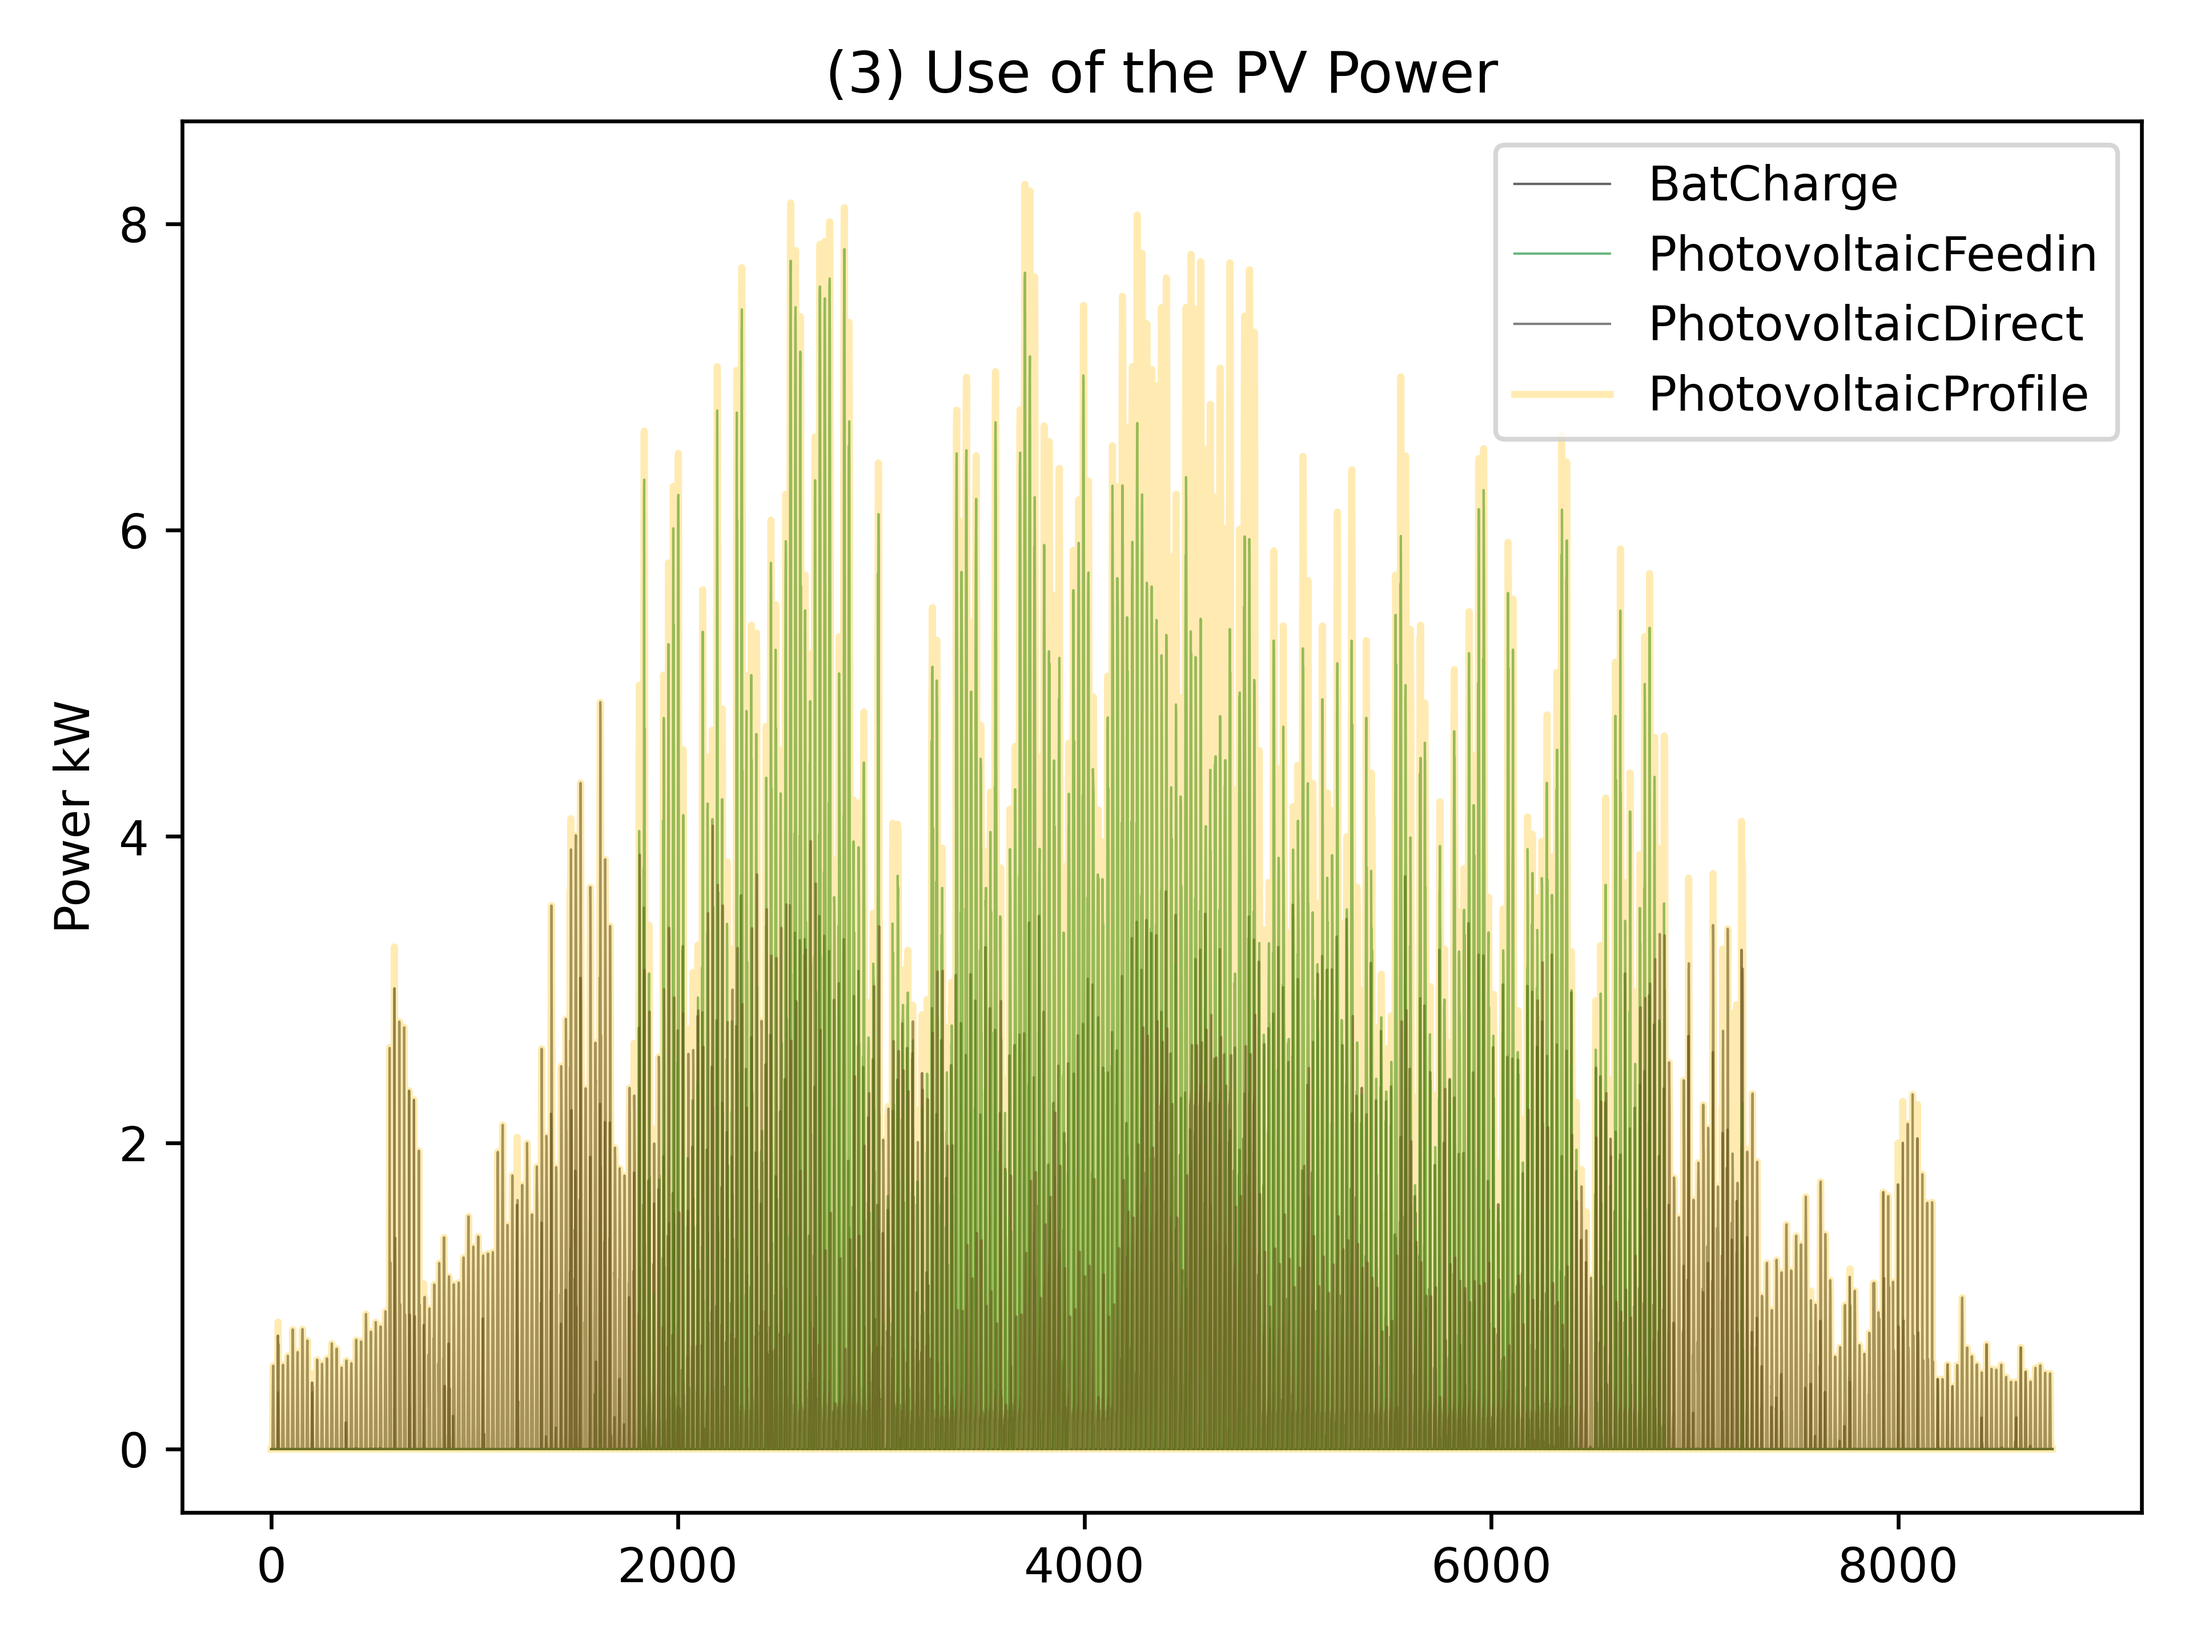
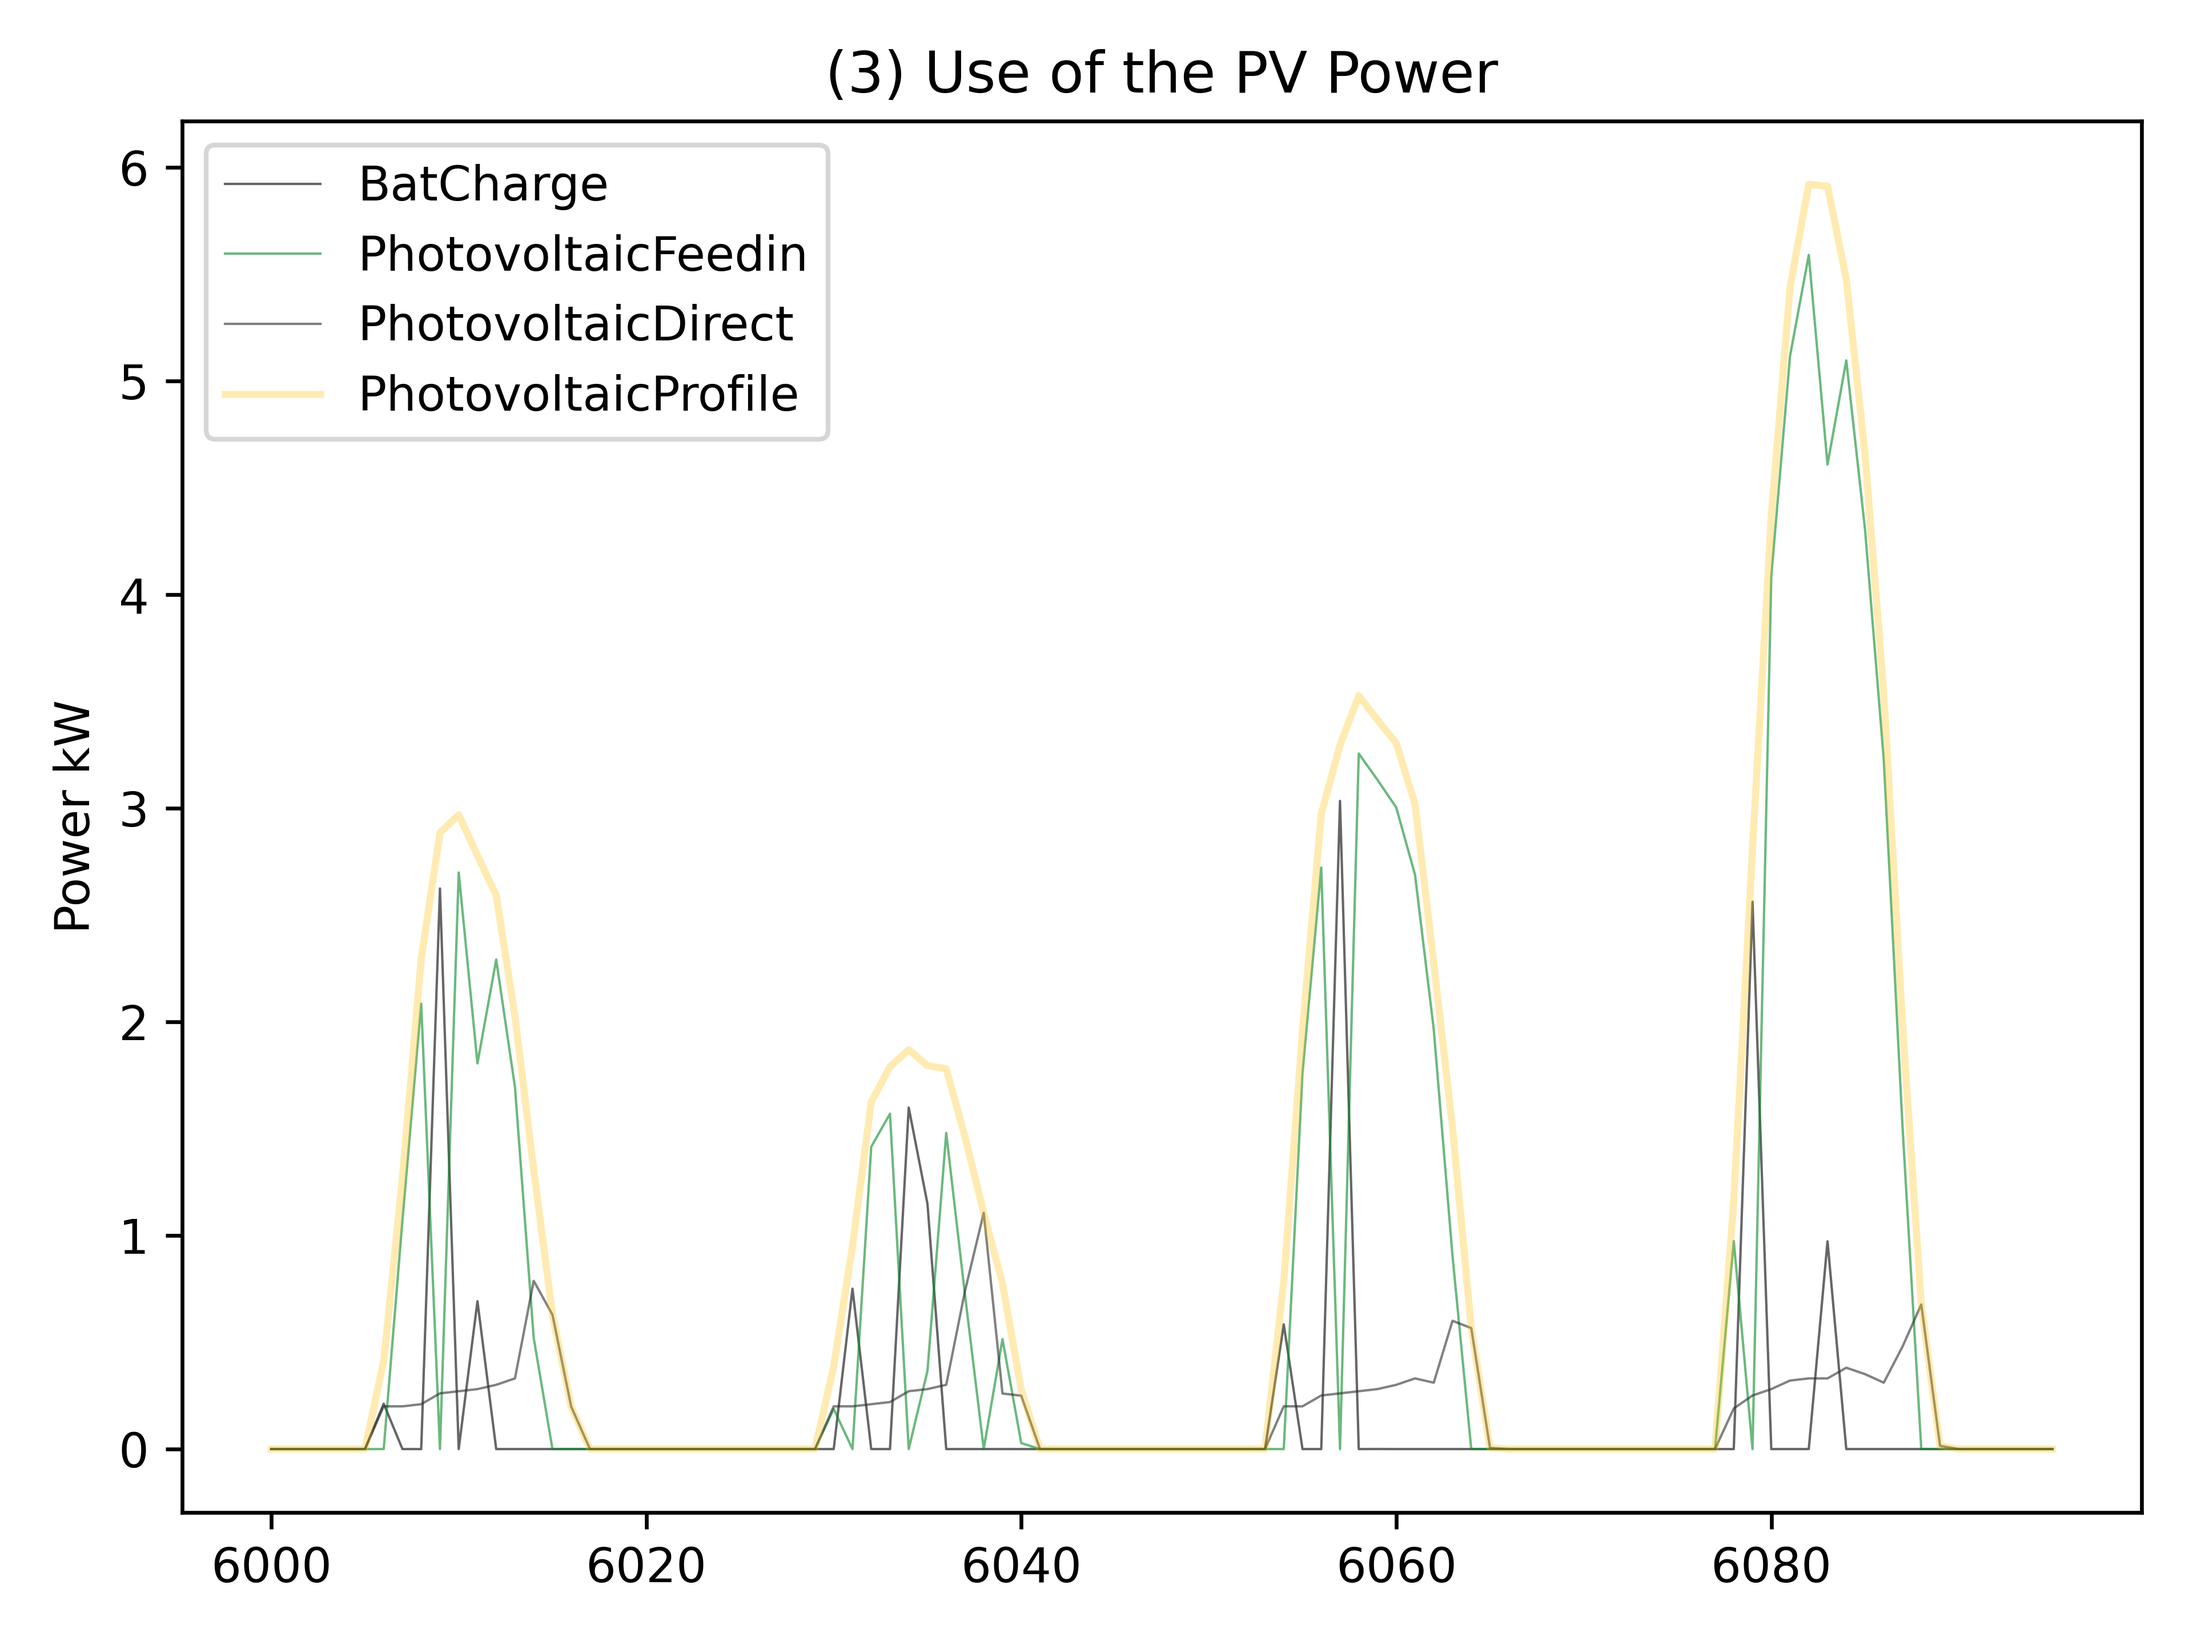
bar plot of loads

diff --git a/C_Model/C2_OperationOptimization/C21_OperationOptimization.py b/C_Model/C2_OperationOptimization/C21_OperationOptimization.py
@@ -363,31 +363,21 @@ class OperationOptimization:
 
 # create plots to visualize results price
 def show_results(instance, HoursOfSimulation, ListOfDynamicCOP, M_WaterTank, CWater, colors):
-    # calculation of JAZ
-    Q_TankHeating = np.array([instance.Q_TankHeating[t]() for t in range(1, HoursOfSimulation + 1)]) / 1000
-    ElectricityDemandHeatPump = []
 
-    for i in range(1, len(list(Q_TankHeating))):
-        HP = Q_TankHeating[i] / ListOfDynamicCOP[i]
-        ElectricityDemandHeatPump.append(HP)
-
-    JAZ = round((np.sum(Q_TankHeating)) / (np.sum(ElectricityDemandHeatPump)), 2)
-
-    # Visualization
-    starttime = 1
-    endtime = 8760
-
+    starttime = 6000
+    endtime = 6096
     # exogenous profiles
     ElectricityPrice = np.array(list(instance.ElectricityPrice.extract_values().values())[starttime: endtime])
     PhotovoltaicProfile = np.array(list(instance.PhotovoltaicProfile.extract_values().values())[starttime: endtime])
-    PhotovoltaicDirect = np.array(list(instance.PhotovoltaicDirect.extract_values().values())[starttime: endtime])
-    PhotovoltaicFeedin = np.array(list(instance.PhotovoltaicFeedin.extract_values().values())[starttime: endtime])
+
     LoadProfile = np.array(list(instance.LoadProfile.extract_values().values())[starttime: endtime])
 
     # tank and building
+    Q_TankHeating = np.array(list(instance.Q_TankHeating.extract_values().values())[starttime: endtime]) / 1000
+    ElectricityDemandHeatPump = np.array(
+        list(instance.Q_TankHeating.extract_values().values())[starttime: endtime]) / 1000 / \
+                                np.array(list(instance.COP_dynamic.extract_values().values())[starttime: endtime])
     Q_Solar = np.array(list(instance.Q_Solar.extract_values().values())[starttime: endtime]) / 1_000  # from W to kW
-    Q_TankHeating = np.array(
-        list(instance.Q_TankHeating.extract_values().values())[starttime: endtime]) / 1000  # from W to kW
     Q_RoomHeating = np.array(
         list(instance.Q_RoomHeating.extract_values().values())[starttime: endtime]) / 1000  # from W to kW
     Q_RoomCooling = np.array(
@@ -403,8 +393,10 @@ def show_results(instance, HoursOfSimulation, ListOfDynamicCOP, M_WaterTank, CWa
     StateOfCharge = np.array(list(instance.StateOfCharge.extract_values().values())[starttime: endtime])
     BatDischarge = np.array(list(instance.BatDischarge.extract_values().values())[starttime: endtime])
     BatCharge = np.array(list(instance.BatCharge.extract_values().values())[starttime: endtime])
-
+    PhotovoltaicDirect = np.array(list(instance.PhotovoltaicDirect.extract_values().values())[starttime: endtime])
+    PhotovoltaicFeedin = np.array(list(instance.PhotovoltaicFeedin.extract_values().values())[starttime: endtime])
     SumOfLoads = np.array(list(instance.SumOfLoads.extract_values().values())[starttime: endtime])
+
     # yearly values
     total_cost = instance.OBJ()
     print('Yearly electricity cost of all technologies: ' + str(total_cost) + '  €')
@@ -412,6 +404,7 @@ def show_results(instance, HoursOfSimulation, ListOfDynamicCOP, M_WaterTank, CWa
     YearlyHeatGeneration = np.sum(Q_TankHeating)
     print('Yearly Output of Heat pump (y): ' + str(YearlyHeatGeneration) + ' kWh')
 
+    JAZ = round(np.sum(Q_TankHeating) / np.sum(ElectricityDemandHeatPump), 2)
     print('Annual performance factor of heatpump: ' + str(JAZ))
 
     YearlyHeatDemand = np.sum(Q_RoomHeating)
@@ -553,7 +546,8 @@ def show_results(instance, HoursOfSimulation, ListOfDynamicCOP, M_WaterTank, CWa
 
     ax1.plot(x_achse, SumOfLoads, linewidth=1, label='SumOfLoads', color=colors["SumOfLoads"], alpha=0.5)
     ax1.plot(x_achse, BatCharge, linewidth=0.5, label='BatCharge', color=colors["BatCharge"], alpha=0.5)
-    ax1.plot(x_achse, ElectricityDemandHeatPump, linewidth=0.3, label='ElectricityDemandHeatPump', color='orange', alpha=0.6)
+    ax1.plot(x_achse, ElectricityDemandHeatPump, linewidth=0.3, label='ElectricityDemandHeatPump', color='orange',
+             alpha=0.6)
     ax1.plot(x_achse, ElectricityCooling, linewidth=0.5, label='ElectricityCooling', color='blue', alpha=0.6)
     ax1.plot(x_achse, LoadProfile, linewidth=0.5, label='LoadProfile', color='green', alpha=0.6)
 
@@ -564,11 +558,38 @@ def show_results(instance, HoursOfSimulation, ListOfDynamicCOP, M_WaterTank, CWa
     fig.savefig('Electrical Loads', dpi=600)
     plt.show()
 
+    # Plt (6) Test with bar diagramm
+
+    plt.figure(figsize=(16, 9))
+    plt.bar(x_achse, LoadProfile, color="red", label="LoadProfile")
+    plt.bar(x_achse, ElectricityCooling, color="blue", bottom=np.array(LoadProfile),
+            label="ElectricityCooling")
+    plt.bar(x_achse, ElectricityDemandHeatPump, color="grey",
+            bottom=np.array(LoadProfile) + np.array(ElectricityCooling), label="ElectricityDemandHeatPump")
+    plt.bar(x_achse, BatCharge, color="orange",
+            bottom=np.array(LoadProfile) + np.array(ElectricityDemandHeatPump) + np.array(ElectricityCooling),
+            label="BatCharge")
+    plt.bar(x_achse, PhotovoltaicFeedin, color="green",
+            bottom=np.array(LoadProfile) + np.array(ElectricityDemandHeatPump) + np.array(ElectricityCooling) + np.array(BatCharge),
+            label="PhotovoltaicFeedin")
+
+
+    plt.plot(x_achse, PhotovoltaicProfile, linewidth=2, label='PhotovoltaicProfile',
+             color=colors["PhotovoltaicProfile"], alpha=0.30)
+    plt.legend()
+    plt.ylabel('Power in kWh')
+    plt.xlabel('Hour of year')
+    plt.title('(6) Sum of Loads')
+    plt.grid()
+    plt.savefig('Electrical Loads in bar diagramm', dpi=600)
+    plt.show()
+
 
 if __name__ == "__main__":
     # colorcode
     red = '#F47070'
     blue = '#8EA9DB'
+
     green = '#088A29'
     orange = '#F4B084'
     yellow = '#FFBF00'

diff --git a/C_Model/C2_OperationOptimization/test.py b/C_Model/C2_OperationOptimization/test.py
@@ -1,5 +1,16 @@
-list = [1,2,3,4,5,6,7]
+import numpy as np
+import matplotlib.pyplot as plt
 
-new_list = [i *5 for i in list]
+data1=[30,20,10,0,0]
+data2=[20,20,20,20,0]
+data3=[50,60,70,80,100]
 
-print(new_list)
+year=["2015","2016","2017","2018","2019"]
+
+plt.figure(figsize=(9,7))
+plt.bar(year,data3,color="green",label="Python")
+plt.bar(year,data2,color="yellow",bottom=np.array(data3),label="JavaScript")
+plt.bar(year,data1,color="red",bottom=np.array(data3)+np.array(data2),label="C++")
+
+plt.legend(loc="lower left",bbox_to_anchor=(0.8,1.0))
+plt.show()
